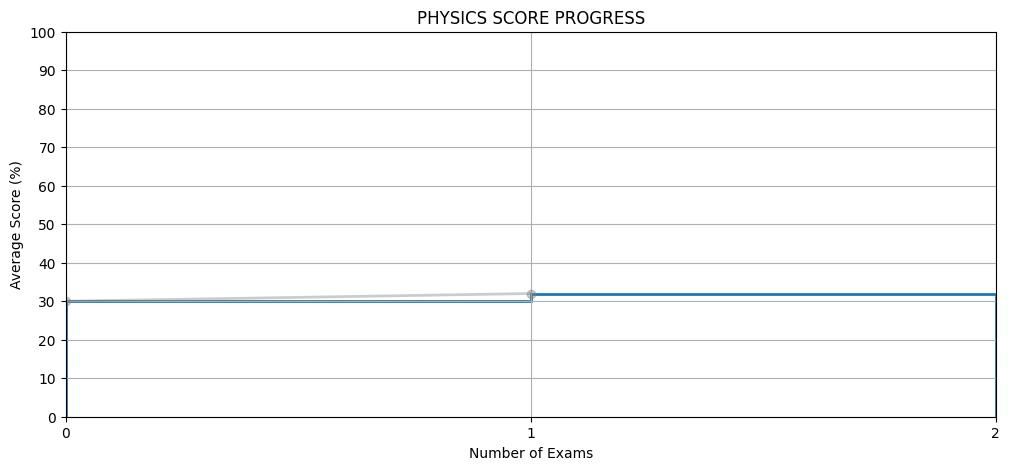
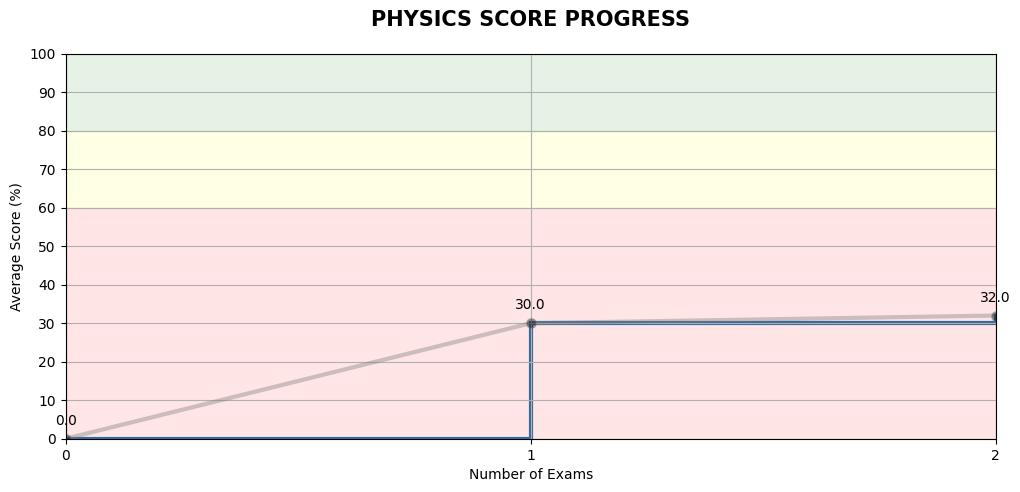
refactor: Specify graphs based on URL id in dashboard pages. includes all the subjects, units, chapters, and lessons leaving it empty if it has no exams. colorizing the grids to indicate the level (red, yellow, green).

diff --git a/plated/dashboard/templates/dashboard/lessons_dashboard.html b/plated/dashboard/templates/dashboard/lessons_dashboard.html
@@ -1,9 +1,17 @@
 {% extends "subjects/base.html" %}
 {% load static %}
-{% block title %}Lessons Dashboard{% endblock %}
+{% block title %}{{chapter.title}} Dashboard{% endblock %}
 
 {% block content %}
-<h1 class="font-weight-bold">Lessons Dashboard</h1>
+<nav aria-label="breadcrumb">
+    <ol class="breadcrumb">
+        <li class="breadcrumb-item"><a href="{% url "subjects-dashboard" %}">subjects</a></li>
+        <li class="breadcrumb-item"><a href="{% url "units-dashboard" chapter.unit.subject.id %}">{{ chapter.unit.subject.title }}</a></li>
+        <li class="breadcrumb-item"><a href="{% url "chapters-dashboard" chapter.unit.id %}">{{ chapter.unit.title }}</a></li>
+        <li class="breadcrumb-item">{{ chapter.title }}</li>
+    </ol>
+</nav>
+<h1 class="font-weight-bold">{{chapter.title}} Dashboard</h1>
     <div class="container">
         <div class="row">
             <div class="col-md-12">
@@ -16,12 +24,18 @@
                         </button>
                     </div>
                     <div id="{{lesson.title|slugify}}-plot" class="lesson-content collapse show">
+                        {% if lesson.plot_url %}
                         <div class="d-flex flex-row flex-wrap justify-content-sm-center">
                             <img src="{{ lesson.plot_url }}" alt="{{lesson.title|slugify}} Score Plot" srcset="">
                         </div>
                         <a href="{{ lesson.plot_url }}" download="{{lesson.title|slugify}}_progress.jpg" class="btn btn-primary" alt="download {{lesson.title|slugify}} score plot">
                             <i class="fa fa-download" aria-hidden="false"></i>
                         </a>
+                        {% else %}
+                        <div class="d-flex flex-row flex-wrap justify-content-sm-center">
+                            <p>No plot available for this lesson</p>
+                        </div>
+                        {% endif %}
                     </div>
                 </section>
                 {% endfor %}

diff --git a/plated/dashboard/templates/dashboard/chapters_dashboard.html b/plated/dashboard/templates/dashboard/chapters_dashboard.html
@@ -1,9 +1,16 @@
 {% extends "subjects/base.html" %}
 {% load static %}
-{% block title %}Chapters Dashboard{% endblock %}
+{% block title %}{{ unit.title }} Dashboard{% endblock %}
 
 {% block content %}
-<h1 class="font-weight-bold">Chapters Dashboard</h1>
+<nav aria-label="breadcrumb">
+    <ol class="breadcrumb">
+        <li class="breadcrumb-item"><a href="{% url "subjects-dashboard" %}">subjects</a></li>
+        <li class="breadcrumb-item"><a href="{% url "units-dashboard" unit.subject.id %}">{{ unit.subject.title }}</a></li>
+        <li class="breadcrumb-item">{{ unit.title }}</li>
+    </ol>
+</nav>
+<h1 class="font-weight-bold"> Unit: {{ unit.title }} Dashboard</h1>
     <div class="container">
         <div class="row">
             <div class="col-md-12">
@@ -16,12 +23,18 @@
                         </button>
                     </div>
                     <div id="{{chapter.title|slugify}}-plot" class="lesson-content collapse show">
+                        {% if chapter.plot_url %}
                         <div class="d-flex flex-row flex-wrap justify-content-sm-center">
                             <img src="{{ chapter.plot_url }}" alt="{{chapter.title|slugify}} Score Plot" srcset="">
                         </div>
                         <a href="{{ chapter.plot_url }}" download="{{chapter.title|slugify}}_progress.jpg" class="btn btn-primary" alt="download {{chapter.title|slugify}} score plot">
                             <i class="fa fa-download" aria-hidden="false"></i>
                         </a>
+                        {% else %}
+                        <div class="d-flex flex-row flex-wrap justify-content-sm-center">
+                            <p>No plot available for this chapter</p>
+                        </div>
+                        {% endif %}
                     </div>
                 </section>
                 {% endfor %}

diff --git a/plated/dashboard/templates/dashboard/units_dashboard.html b/plated/dashboard/templates/dashboard/units_dashboard.html
@@ -1,9 +1,15 @@
 {% extends "subjects/base.html" %}
 {% load static %}
-{% block title %}Units Dashboard{% endblock %}
+{% block title %}{{ subject.title }} Dashboard{% endblock %}
 
 {% block content %}
-<h1 class="font-weight-bold">Units Dashboard</h1>
+<nav aria-label="breadcrumb">
+    <ol class="breadcrumb">
+        <li class="breadcrumb-item"><a href="{% url "subjects-dashboard" %}">subjects</a></li>
+        <li class="breadcrumb-item">{{ subject.title }}</li>
+    </ol>
+</nav>
+<h1 class="font-weight-bold">{{ subject.title }} Dashboard</h1>
     <div class="container">
         <div class="row">
             <div class="col-md-12">
@@ -16,12 +22,18 @@
                         </button>
                     </div>
                     <div id="{{unit.title|slugify}}-plot" class="lesson-content collapse show">
+                        {% if unit.plot_url %}
                         <div class="d-flex flex-row flex-wrap justify-content-sm-center">
                             <img src="{{ unit.plot_url }}" alt="{{unit.title|slugify}} Score Plot" srcset="">
                         </div>
                         <a href="{{ unit.plot_url }}" download="{{unit.title|slugify}}_progress.jpg" class="btn btn-primary" alt="download {{unit.title|slugify}} score plot">
                             <i class="fa fa-download" aria-hidden="false"></i>
                         </a>
+                        {% else %}
+                        <div class="d-flex flex-row flex-wrap justify-content-sm-center">
+                            <p>No plot available for this unit</p>
+                        </div>
+                        {% endif %}
                     </div>
                 </section>
                 {% endfor %}

diff --git a/plated/dashboard/templates/dashboard/subjects_dashboard.html b/plated/dashboard/templates/dashboard/subjects_dashboard.html
@@ -3,6 +3,11 @@
 {% block title %}Subjects Dashboard{% endblock %}
 
 {% block content %}
+<nav aria-label="breadcrumb">
+    <ol class="breadcrumb">
+        <li class="breadcrumb-item">subjects</li>
+    </ol>
+</nav>
 <h1 class="font-weight-bold">Subjects Dashboard</h1>
     <div class="container">
         <div class="row">
@@ -16,12 +21,14 @@
                         </button>
                     </div>
                     <div id="{{subject.title|slugify}}-plot" class="lesson-content collapse show">
+                        {% if subject.plot_url %}
                         <div class="d-flex flex-row flex-wrap justify-content-sm-center">
                             <img src="{{ subject.plot_url }}" alt="{{subject.title|slugify}} Score Plot" srcset="">
                         </div>
                         <a href="{{ subject.plot_url }}" download="{{subject.title|slugify}}_progress.jpg" class="btn btn-primary" alt="download {{subject.title|slugify}} score plot">
                             <i class="fa fa-download" aria-hidden="false"></i>
                         </a>
+                        {% endif %}
                     </div>
                 </section>
                 {% endfor %}

diff --git a/plated/dashboard/views.py b/plated/dashboard/views.py
@@ -1,6 +1,6 @@
 from django.contrib.auth.decorators import login_required
 from django.shortcuts import render
-from subjects.models import Lesson
+from subjects.models import Subject, Unit, Chapter, Lesson
 from .utils import (
     avg_score_progress,
     score_progress,
@@ -41,37 +41,50 @@ def subject_dashboard_view(request):
             for subject in subjects_scores
         ]
     }
-    print(context)
+    if not context['subjects']:
+        context = {
+            'subjects': [
+                {
+                    'id': subject.id,
+                    'title': subject.title,
+                    'plot_url': None,
+                }
+                for subject in list(set([lesson.chapter.unit.subject for lesson in Lesson.objects.filter(grade=user.student.grade)]))
+            ]
+        }
     return render(request, 'dashboard/subjects_dashboard.html', context)
 
 
 @login_required(login_url='login')
 def unit_dashboard_view(request, id):
     user = request.user
-    units_scores = score_progress(user, 'unit', {'subject__id': id})
+    units_scores = score_progress(user, 'unit', {'chapter__unit__subject__id': id})
     context = {
+        'subject': Subject.objects.get(id=id),
         'units': [
             {
                 'id': unit['id'],
                 'title': unit['title'],
-                'plot_url': plot(f"{unit['title']}_score_progress", unit['scores'], user.id),
+                'plot_url': plot(f"{unit['title']}_score_progress", unit['scores'], user.id) if unit['scores'] else None,
             }
             for unit in units_scores
         ],
     }
+    
     return render(request, 'dashboard/units_dashboard.html', context)
 
 
 @login_required(login_url='login')
 def chapter_dashboard_view(request, id):
     user = request.user
-    chapters_scores = score_progress(user, 'chapter', {'unit__id': id})
+    chapters_scores = score_progress(user, 'chapter', {'chapter__unit__id': id})
     context = {
+        'unit': Unit.objects.get(id=id),
         'chapters': [
             {
                 'id': chapter['id'],
                 'title': chapter['title'],
-                'plot_url': plot(f"{chapter['title']}_score_progress", chapter['scores'], user.id),
+                'plot_url': plot(f"{chapter['title']}_score_progress", chapter['scores'], user.id) if chapter['scores'] else None,
             }
             for chapter in chapters_scores
         ]
@@ -84,11 +97,12 @@ def lesson_dashboard_view(request, id):
     user = request.user
     lessons_scores = score_progress(user, 'lesson', {'chapter__id': id})
     context = {
+        'chapter': Chapter.objects.get(id=id),
         'lessons': [
             {
                 'id': lesson['id'],
                 'title': lesson['title'],
-                'plot_url': plot(f"{lesson['title']}_score_progress", lesson['scores'], user.id),
+                'plot_url': plot(f"{lesson['title']}_score_progress", lesson['scores'], user.id) if lesson['scores'] else None,
             }
             for lesson in lessons_scores
         ]

diff --git a/plated/dashboard/utils.py b/plated/dashboard/utils.py
@@ -1,6 +1,7 @@
 import matplotlib.pyplot as plt
 from exams.models import Exam
-from subjects.models import Lesson, Chapter, Unit, Subject
+from subjects.models import Lesson
+from curriculum.models import CURRENT_SEMESTER
 
 def avg(lst):
     if len(lst) == 0:
@@ -18,8 +19,11 @@ def plot(name, data, id):
     name = name.replace('_', ' ').upper()
     print(name)
     plt.figure(figsize=(12, 5))
-    plt.plot(data, '-o', color='gray', alpha=0.4, linewidth=2)
-    plt.stairs(data, linewidth=2)
+    y = [0, *data]
+    plt.plot(y, '-o', color='gray', alpha=0.4, linewidth=3, markersize=7, markerfacecolor='black')
+    for i in range(len(y)):
+        plt.annotate("{:.1f}".format(y[i]), (i, y[i]), textcoords="offset points", xytext=(0,10), ha='center')
+    plt.stairs([0, *data, 0], linewidth=3)
     plt.xlabel("Number of Exams")
     plt.ylabel("Average Score (%)")
     plt.xlim(0, len(data))
@@ -27,7 +31,10 @@ def plot(name, data, id):
     plt.xticks(range(0, len(data) + 1, 1))
     plt.yticks(range(0, 101, 10))
     plt.grid()
-    plt.title(name)
+    plt.axhspan(0, 60, color='red', alpha=0.1)
+    plt.axhspan(60, 80, color='yellow', alpha=0.1)
+    plt.axhspan(80, 100, color='green', alpha=0.1)
+    plt.title(name, fontsize=15, fontweight='bold', color='black', loc='center', pad=20)
     plt_url = f"/media/plots/{id}_{name}.jpg"
     plt.savefig(plt_url[1:], bbox_inches='tight')
     plt.close()
@@ -35,14 +42,14 @@ def plot(name, data, id):
 
 
 def score_progress(user, focus, filter):
-    model = {
-        'lesson': Lesson,
-        'chapter': Chapter,
-        'unit': Unit,
-        'subject': Subject,
+    lessons = Lesson.objects.filter(grade=user.student.grade, semester=CURRENT_SEMESTER)
+    query = {
+        'lesson': lessons.filter(**filter),
+        'chapter': list(set([lesson.chapter for lesson in lessons.filter(**filter)])),
+        'unit': list(set([lesson.chapter.unit for lesson in lessons.filter(**filter)])),
+        'subject': list(set([lesson.chapter.unit.subject for lesson in lessons])),
     }
-    focus_instances = model[focus].objects.filter(exams__student=user.student).distinct()
-    focus_instances = focus_instances.filter(**filter)
+    focus_instances = query[focus]
     focus_scores = []
     for  instance in focus_instances:
         solved_exams = instance.exams.filter(student=user.student, score__isnull=False)

diff --git a/plated/exams/views.py b/plated/exams/views.py
@@ -89,7 +89,6 @@ def solved_exam(request, id):
 
 
 @login_required(login_url='login')
-@cache_page(60 * 60)
 def exam_list(request):
     print(request.build_absolute_uri().split('page=')[0])
     focus = request.GET.get('focus')
